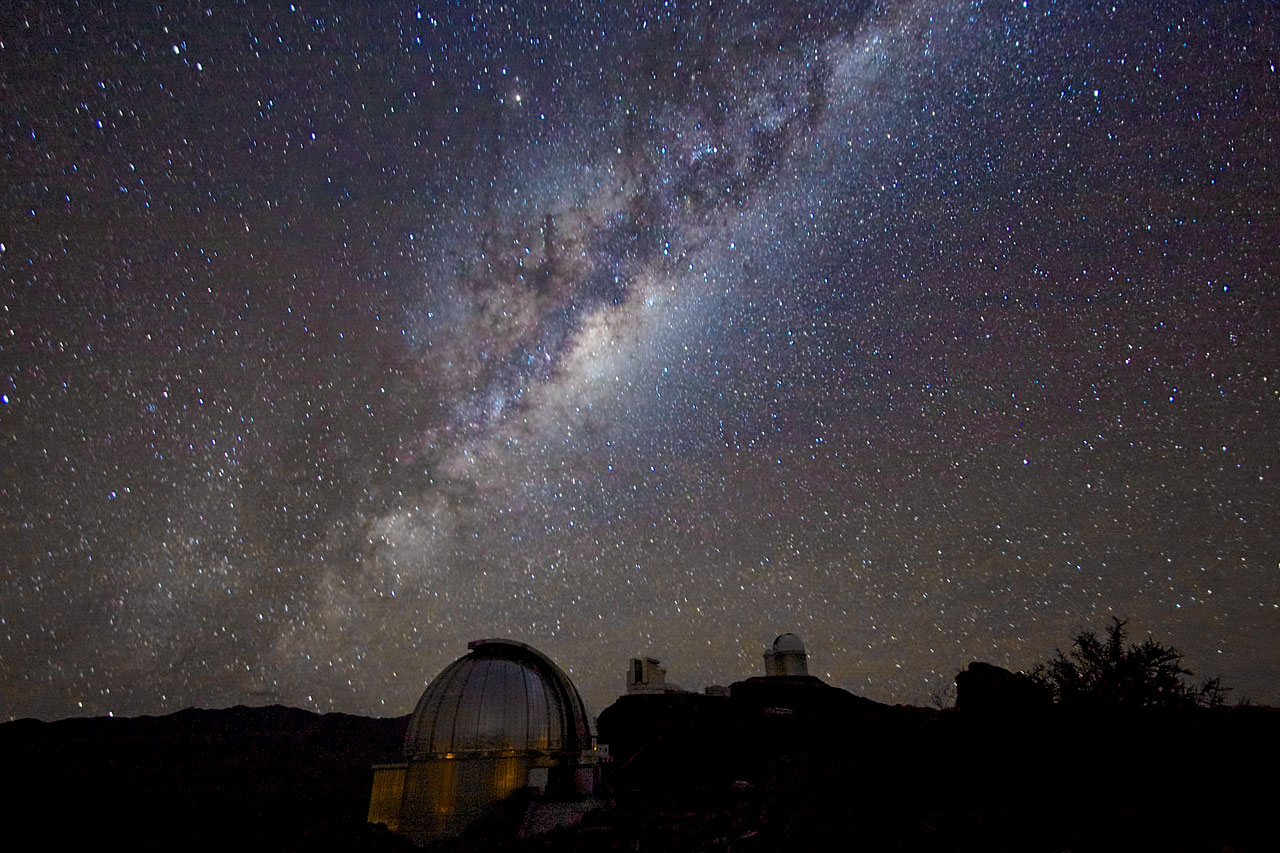
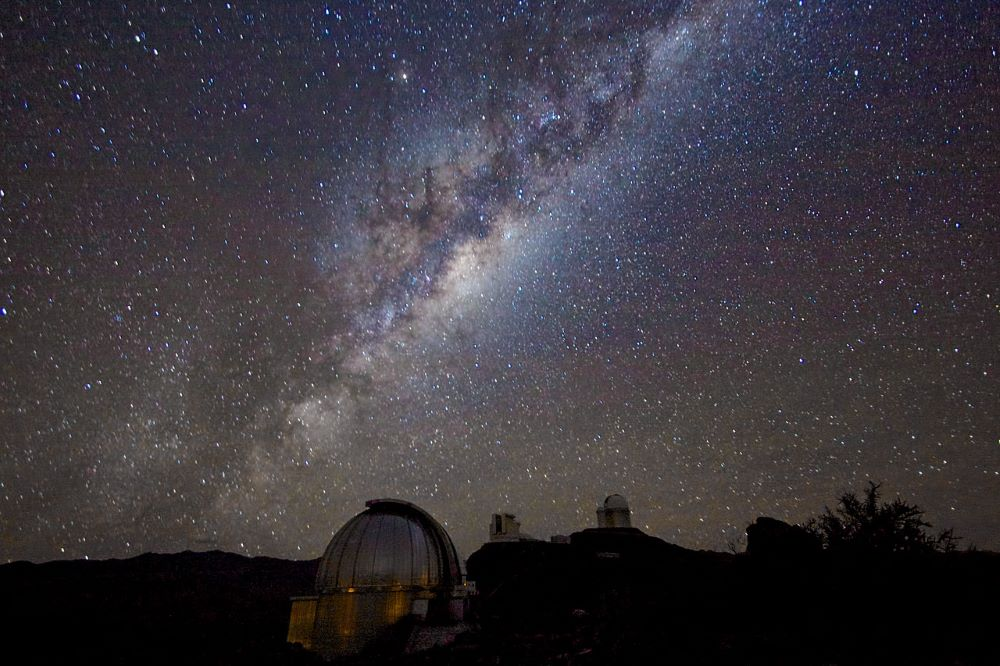
Improved load time

Changed region(s): [[0.992, 0.0601, 1.0, 0.0901]]

diff --git a/index.html b/index.html
@@ -64,7 +64,7 @@
 							<section id="one" class="tiles">
 								<article>
 									<span class="image">
-										<img src="images/black_eye.png" alt="" />
+										<img src="images/black_eye.jpg" alt="" />
 									</span>
 									<header class="major">
 										<h3><a href="about" class="link">About Me</a></h3>
